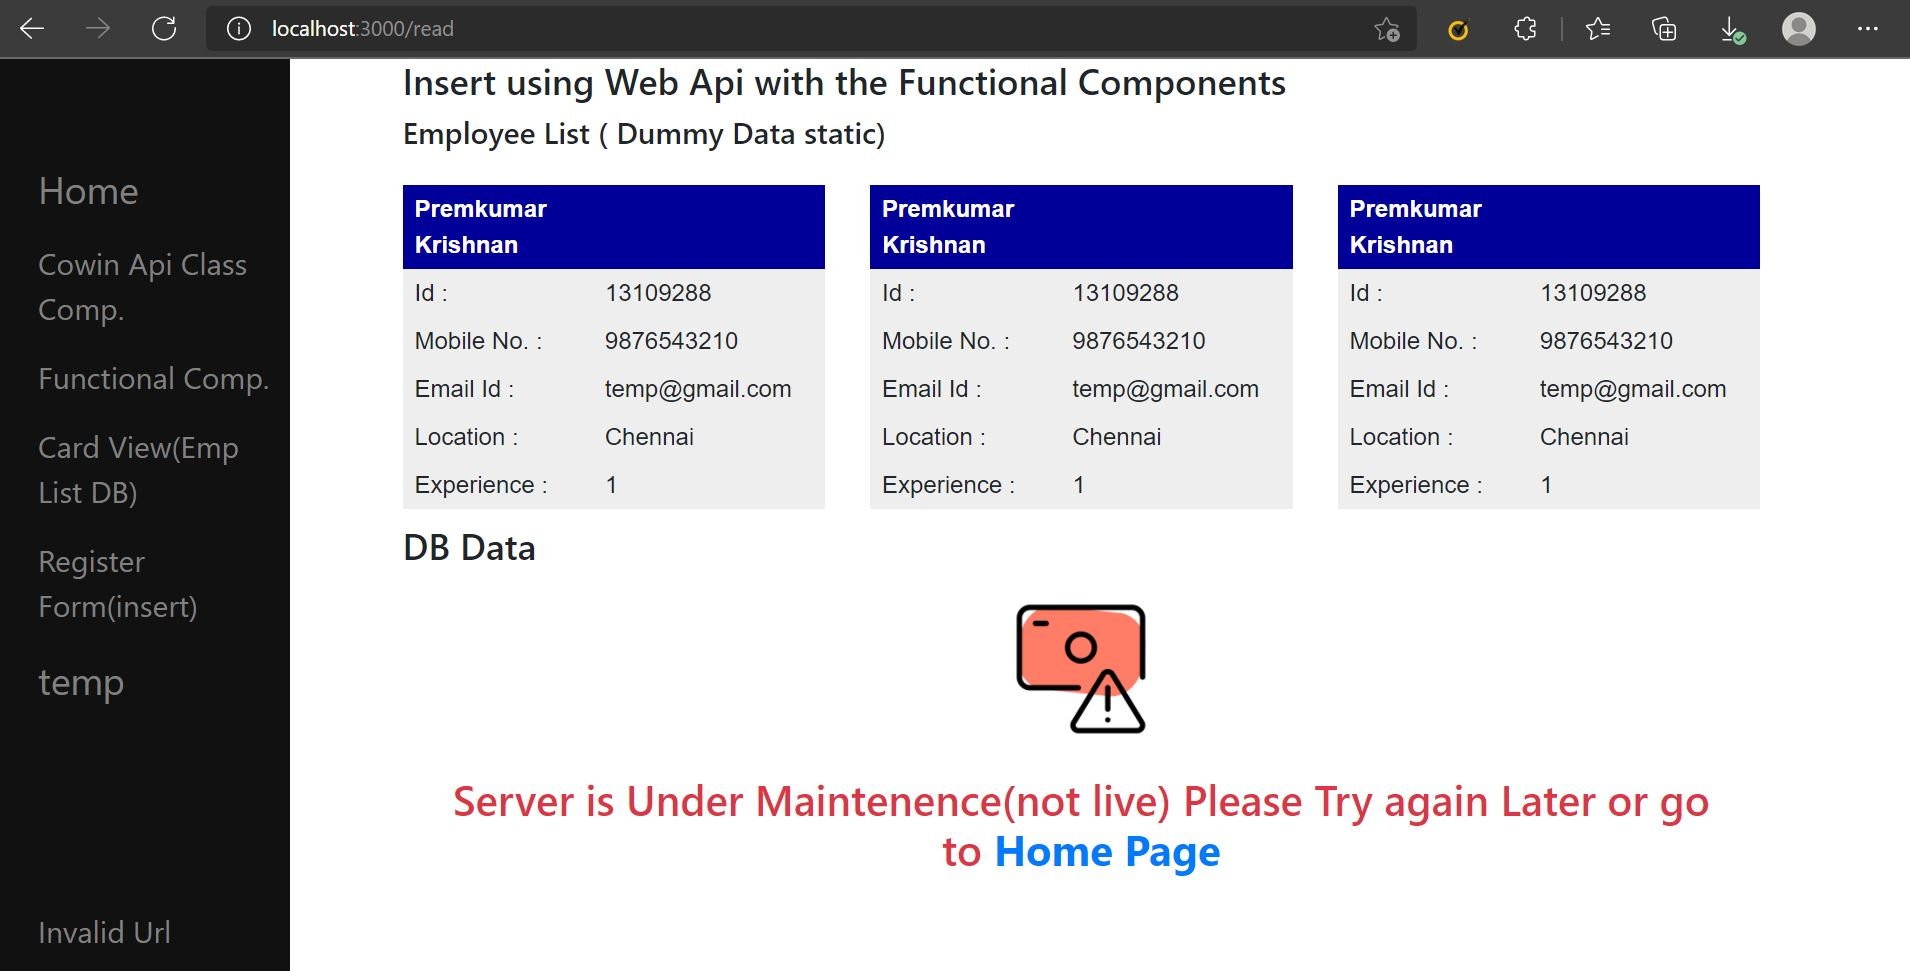
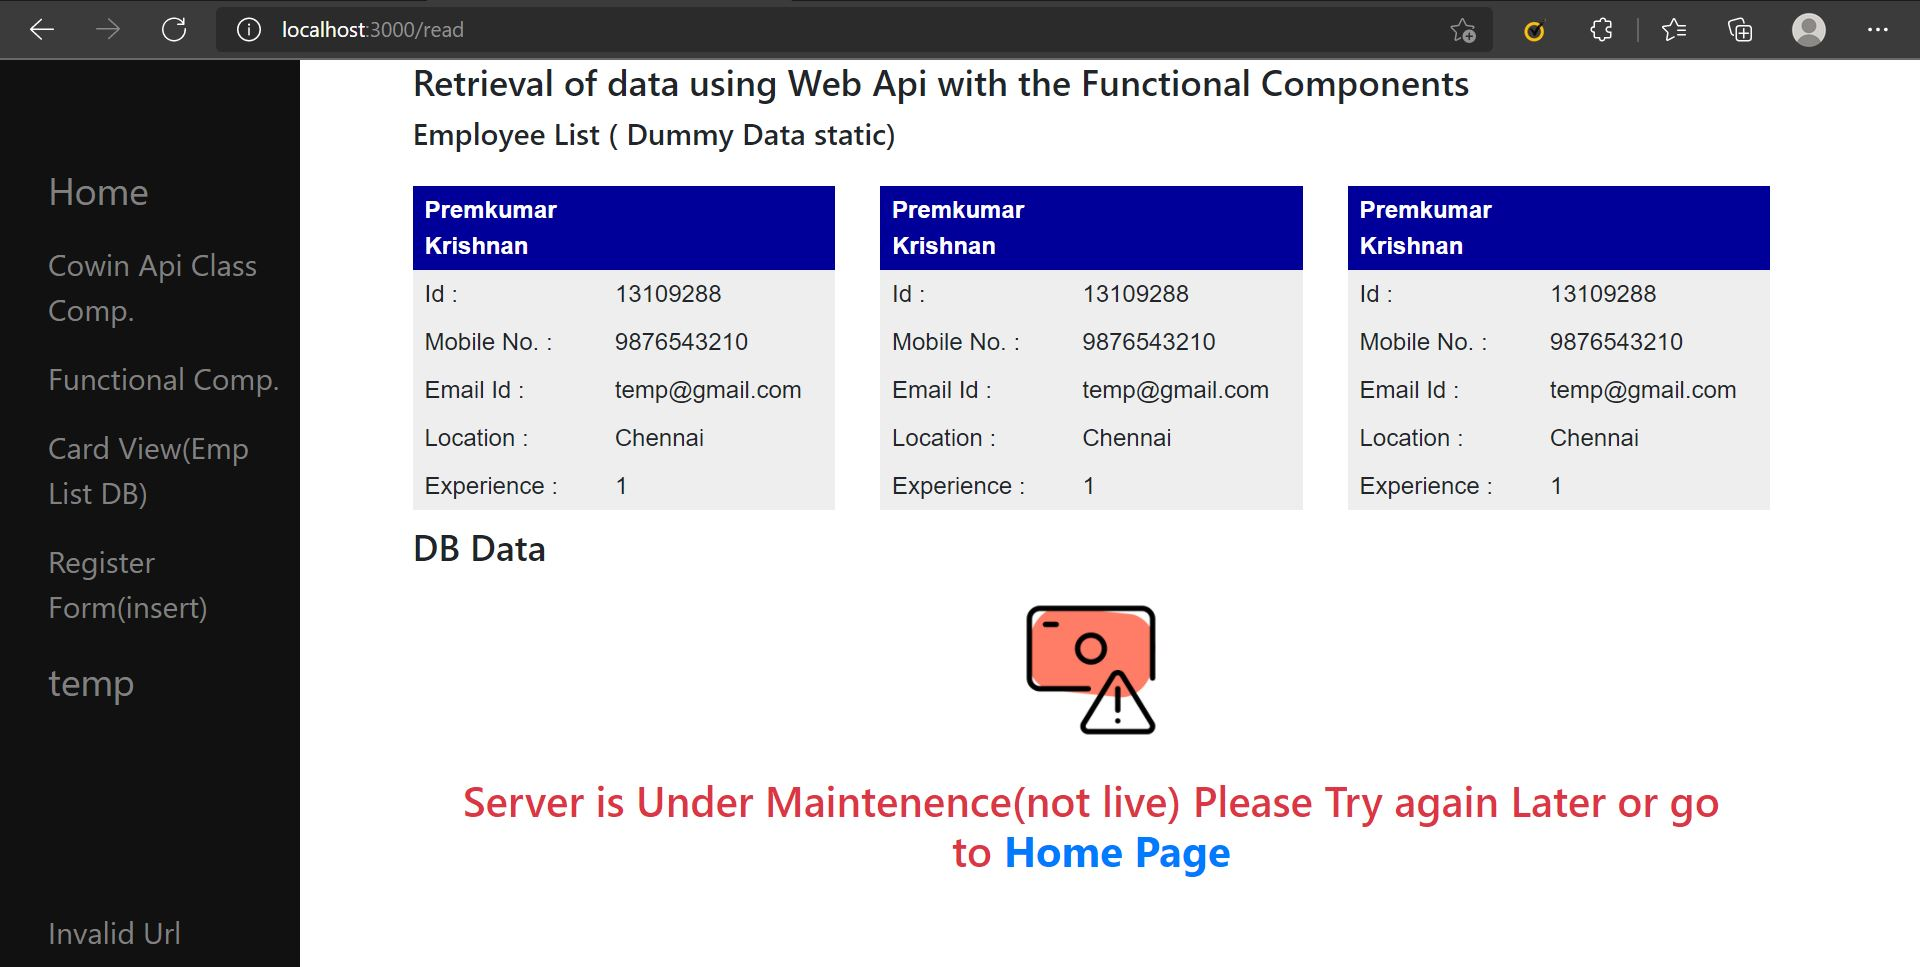
File Update

diff --git a/src/components/Register.js b/src/components/Register.js
@@ -76,10 +76,12 @@ const validateEmployee = empData => {
     });
   
     return (<>
+      
       {bool ?(<div>
           <br></br>
           <br></br>
-        <h2>New Application Form...</h2>
+        <h4>Insert using Web Api with the Functional Components</h4>
+        <h2>Register Form...</h2>
         
     <form className="text-primary" onSubmit={formik.handleSubmit}>
           <p>

diff --git a/src/components/ViewDataContent.js b/src/components/ViewDataContent.js
@@ -45,7 +45,7 @@ export const ViewDataContent = () => {
     return <>
 
         <div className='container'>
-            <h4>Insert using Web Api with the Functional Components</h4>
+            <h4>Retrieval of data using Web Api with the Functional Components</h4>
             <h5>Employee List ( Dummy Data static) </h5>
             <div className='row'>
                 <DummyData />

diff --git a/src/components/CowinApi.js b/src/components/CowinApi.js
@@ -42,7 +42,7 @@ class CowinApi extends react.Component{
          
           <br></br>
           <br></br>
-    <h1>Covin Slot Availability Check By Pincode</h1>
+          <h3>Covin Availability Centers check By Pincode</h3>
     
      <label>Enter Your Pincode
           </label>

diff --git a/src/components/CowinFn.js b/src/components/CowinFn.js
@@ -30,7 +30,7 @@ useEffect(() => {
          
           <br></br>
           <br></br>
-    <h1>Covin Slot Availability Check By Pincode</h1>
+    <h3>Covin Availability Centers check By Pincode</h3>
     
      <label>Enter Your Pincode
           </label>
